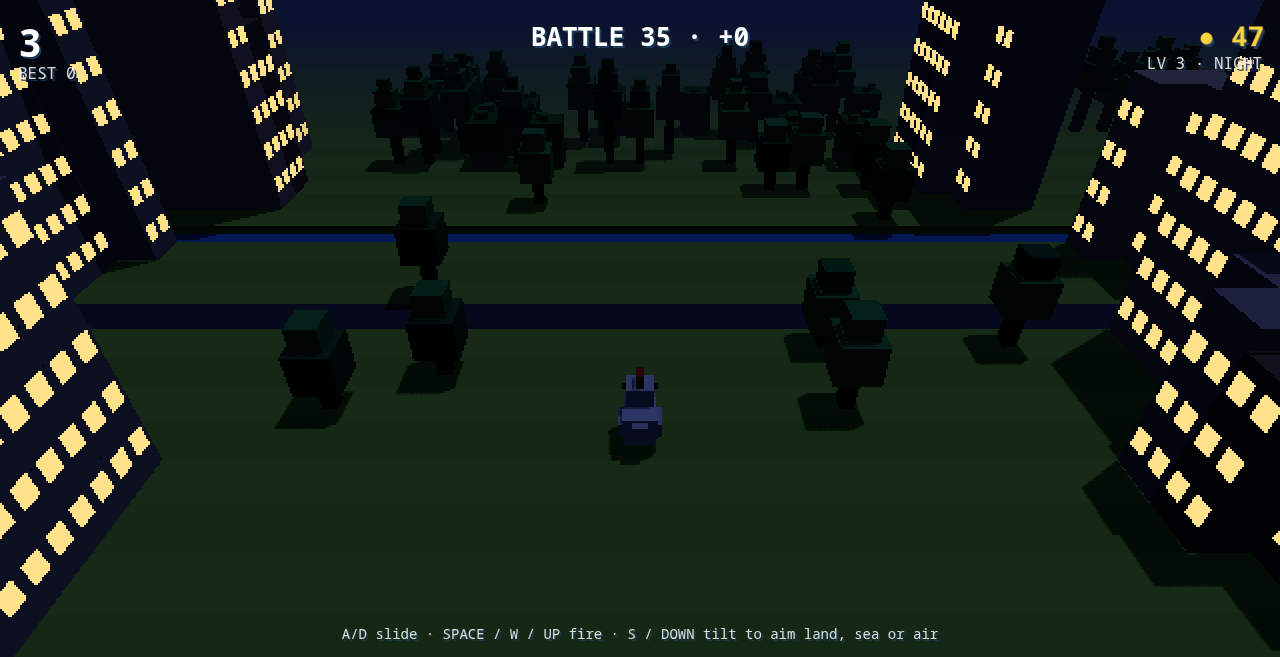
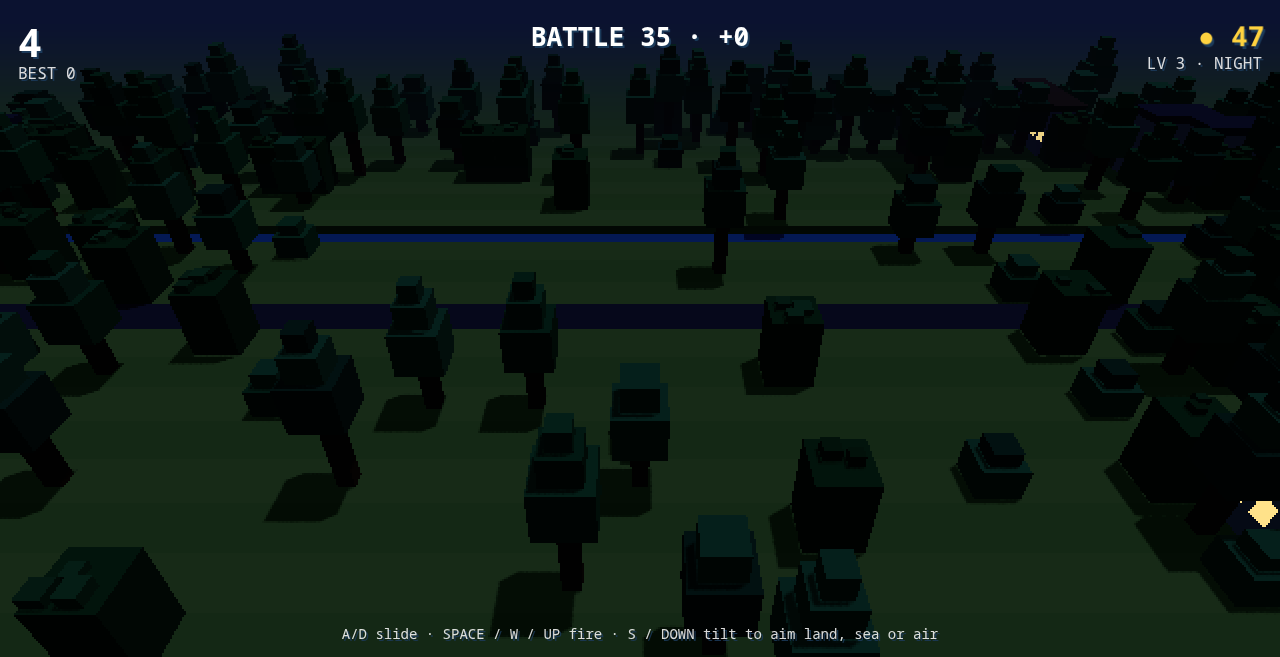
Themed battle field grid; ba-doom explosions with variation; plink launch sound

diff --git a/src/modes/battle.js b/src/modes/battle.js
@@ -2,8 +2,11 @@
 // and lobs eggs up-screen at cars, boats and planes crossing at three depths.
 // Timed. Ends the level and hands the run record to the next one.
 import * as THREE from 'three';
-import { makeChicken, makeGround, makeCar, makeTruck, makeBoat, makePlane, makeEgg, makeHeadlightCone, makeTree, makeHedge } from '../meshes.js';
-import { Lane } from '../lane.js';
+import {
+  makeChicken, makeGround, makeCar, makeTruck, makeBoat, makePlane, makeEgg, makeHeadlightCone,
+  makeTree, makeHedge, makeShrub, makeParkedCar, makeFence, makeDumpster, makePlanter, makeBuildingCell, buildingStyle,
+} from '../meshes.js';
+import { Footprints } from '../scenery/footprints.js';
 import { W, SPAN } from '../lane.js';
 import { sfx } from '../sfx.js';
 import { music } from '../music.js';
@@ -16,6 +19,16 @@ const TILTS = ['land', 'sea', 'air'];                 // each tilt aims at one r
 // [camera preset, ground point the camera looks at]
 const VIEW = { land: ['battleLand', 3.5], sea: ['battleSea', 8.7], air: ['battleAir', 13.7] };
 const FIELD_W = 400;   // wide enough to reach the fog at every tilt
+const GRID_X = 40;     // props are placed on cells out to ±GRID_X
+// Field themes: prop mix (weighted by repetition), building style and how
+// often a footprint is attempted per side per row. One is picked per battle.
+const tall = () => makeTree(true);
+const THEMES = {
+  forest:      { props: [tall, tall, tall, makeTree, makeTree, makeHedge, makeHedge, makeShrub], building: 'house', buildProb: 0.08 },
+  residential: { props: [makeFence, makeFence, makeShrub, makeShrub, makeTree, tall, makeParkedCar], building: 'house', buildProb: 0.5 },
+  city:        { props: [makeDumpster, makePlanter, makePlanter, makeParkedCar, makeParkedCar, makeTree], building: 'tower', buildProb: 0.7 },
+  parking:     { props: [makeParkedCar, makeParkedCar, makeParkedCar, makeFence, makePlanter, makeShrub], building: 'tower', buildProb: 0.15 },
+};
 const HEIGHT = { land: 0.6, sea: 0.6, air: 3.2 };
 const SLIDE = 7, EGG_SPEED = 14, COOLDOWN = 0.3;
 
@@ -39,29 +52,7 @@ export class BattleMode {
     this.cooldown = 0;
     this.ending = 0;
 
-    // The field borrows the level's scenery for the strip edges, and the far
-    // rows get trees and hedges so the horizon is not bare.
-    const scenery = this.game.scenery();
-    const fakeWorld = { data: {}, config: { sky, scenery } };
-    for (let r = -6; r <= 16; r++) {
-      const g = r === ROWS.land ? makeGround(FIELD_W, 0x4a4a52)
-        : r === ROWS.sea ? makeGround(FIELD_W, 0x3f8fd6, -0.3, 0.2)
-        : makeGround(FIELD_W, r % 2 ? 0x9ad24a : 0x8fca43);
-      g.position.z = -r;
-      this.group.add(g);
-      if (r === ROWS.land || r === ROWS.sea) continue;
-      const lane = new Lane(r, null, fakeWorld);
-      lane.edges();
-      if (r > 0 && r !== ROWS.air) for (let c = -W; c <= W; c++) {
-        if (r >= 13 && Math.random() < 0.5) lane.add(Math.random() < 0.6 ? makeTree(true) : makeHedge(), c);
-        else if (Math.random() < 0.06) lane.add(makeTree(), c);
-      }
-      for (let c = W + 8; c <= 40; c += 1) for (const s of [-1, 1]) if (Math.random() < 0.35) lane.add(makeTree(true), s * c);
-      this.group.add(lane.group);
-    }
-    const far = makeGround(FIELD_W, 0x8fca43);   // plain ground out to the fog line
-    far.scale.z = 120; far.position.z = -16.5 - 60;
-    this.group.add(far);
+    this.buildField(sky);
     this.chicken = makeChicken();
     this.group.add(this.chicken);
     this.cx = 0;
@@ -70,6 +61,48 @@ export class BattleMode {
     this.game.camera.snap(0, -VIEW.land[1], VIEW.land[0]);
     music.setMood({ battle: true, dead: false, tilted: false, danger: false });
     this.game.card(`LEVEL ${level.number} CLEAR · BATTLE`);
+  }
+
+  // Grid the field and fill it in one theme's style. Target rows and the
+  // chicken's row stay clear; buildings take tetromino footprints outside the
+  // strip; other cells roll for a prop.
+  buildField(sky) {
+    const fp = new Footprints();
+    const lit = !!sky.dark;
+    const theme = THEMES[pick(...Object.keys(THEMES))];
+    for (let r = -6; r <= 16; r++) {
+      const g = r === ROWS.land ? makeGround(FIELD_W, 0x4a4a52)
+        : r === ROWS.sea ? makeGround(FIELD_W, 0x3f8fd6, -0.3, 0.2)
+        : makeGround(FIELD_W, r % 2 ? 0x9ad24a : 0x8fca43);
+      g.position.z = -r;
+      this.group.add(g);
+      if (r === ROWS.land || r === ROWS.sea) continue;
+
+      const row = new THREE.Group();
+      row.position.z = -r;
+      const taken = new Set();
+      for (const s of [-1, 1]) {
+        const [a, b] = s < 0 ? [-GRID_X, -W - 2] : [W + 2, GRID_X];
+        for (let i = 0; i < 3; i++) if (Math.random() < theme.buildProb) fp.plan(r, a, b, buildingStyle(theme.building, lit));
+      }
+      for (const cell of fp.take(r)) {
+        const m = makeBuildingCell(cell.style, cell.x < 0 ? 1 : -1);
+        m.position.x = cell.x;
+        row.add(m);
+        taken.add(cell.x);
+      }
+      for (let c = -GRID_X; c <= GRID_X; c++) {
+        if (taken.has(c)) continue;
+        const inStrip = Math.abs(c) <= W + 1;
+        if (inStrip && r <= 3) continue;                  // clear sight lines in front of the chicken
+        const density = inStrip ? (r >= 13 ? 0.45 : 0.02) : 0.3;
+        if (Math.random() < density) { const m = pick(...theme.props)(); m.position.x = c; row.add(m); }
+      }
+      this.group.add(row);
+    }
+    const far = makeGround(FIELD_W, 0x8fca43);
+    far.scale.z = 120; far.position.z = -16.5 - 60;
+    this.group.add(far);
   }
 
   exit() {
@@ -105,7 +138,7 @@ export class BattleMode {
     egg.position.set(this.cx, 0.6, 0);
     this.group.add(egg);
     this.eggs.push({ mesh: egg, x: this.cx, z: 0, aim: this.aim });
-    sfx.hop();
+    sfx.plink();
   }
 
   spawn(kind) {
@@ -173,7 +206,8 @@ export class BattleMode {
         e.z = 99;
         this.points += POINTS[t.kind];
         game.run.coins += 1;
-        (t.kind === 'sea' ? sfx.splash : sfx.splat)();
+        sfx.boom(t.kind === 'air' ? 1.3 : t.kind === 'sea' ? 0.8 : 1);
+        if (t.kind === 'sea') sfx.splash();
         break;
       }
     }

diff --git a/src/sfx.js b/src/sfx.js
@@ -67,10 +67,25 @@ function voice(opts) {
 }
 
 const N = (n) => 440 * Math.pow(2, (n - 69) / 12); // MIDI note to Hz
+const vary = (v, pct = 0.15) => v * (1 + (Math.random() * 2 - 1) * pct); // random variation
+
+// Two-part 8-bit explosion: a short "ba" click, then a low "doom" with a
+// pitch drop under a lowpassed noise wash. Every call varies a little.
+function boom(size = 1) {
+  const dur = vary(0.45, 0.2) * size;
+  voice({ wave: 'noise', freq: 3000, slideTo: 800, filter: 'highpass', attack: 0.001, decay: 0.02, sustain: 0.3, hold: 0.01, release: 0.03, vol: 0.14 });
+  setTimeout(() => {
+    voice({ wave: pick('sawtooth', 'square'), freq: vary(95, 0.25) / Math.sqrt(size), slideTo: 28, attack: 0.003, decay: 0.08, sustain: 0.6, hold: dur * 0.3, release: dur * 0.6, vol: 0.12 * Math.min(1.4, size) });
+    voice({ wave: 'noise', freq: vary(900, 0.3), slideTo: 90, filter: 'lowpass', attack: 0.002, decay: 0.1, sustain: 0.5, hold: dur * 0.25, release: dur * 0.7, vol: 0.2 });
+  }, 35);
+}
+const pick = (...xs) => xs[Math.floor(Math.random() * xs.length)];
 
 export const sfx = {
   unlock: () => ac(),
-  hop: () => voice({ wave: 'square', freq: N(72), slideTo: N(79), attack: 0.002, decay: 0.03, sustain: 0.4, hold: 0.01, release: 0.05, vol: 0.06 }),
+  boom,
+  plink: () => voice({ wave: 'triangle', freq: vary(1500, 0.12), slideTo: 650, attack: 0.001, decay: 0.03, sustain: 0.3, hold: 0.01, release: 0.05, vol: 0.06 }),
+  hop: () => voice({ wave: 'square', freq: vary(N(72), 0.03), slideTo: N(79), attack: 0.002, decay: 0.03, sustain: 0.4, hold: 0.01, release: 0.05, vol: 0.06 }),
   bump: () => voice({ wave: 'square', freq: N(45), slideTo: N(40), attack: 0.002, decay: 0.05, sustain: 0.3, hold: 0.02, release: 0.06, vol: 0.07 }),
   coin: () => voice({ wave: 'square', freq: N(88), arp: [N(93), N(93), N(93)], arpStep: 0.06, attack: 0.002, decay: 0.05, sustain: 0.7, hold: 0.12, release: 0.12, vol: 0.07 }),
   hatch: () => voice({ wave: 'square', freq: N(84), arp: [N(88), N(91), N(96)], arpStep: 0.05, attack: 0.002, decay: 0.03, sustain: 0.7, hold: 0.12, release: 0.1, vol: 0.07 }),
